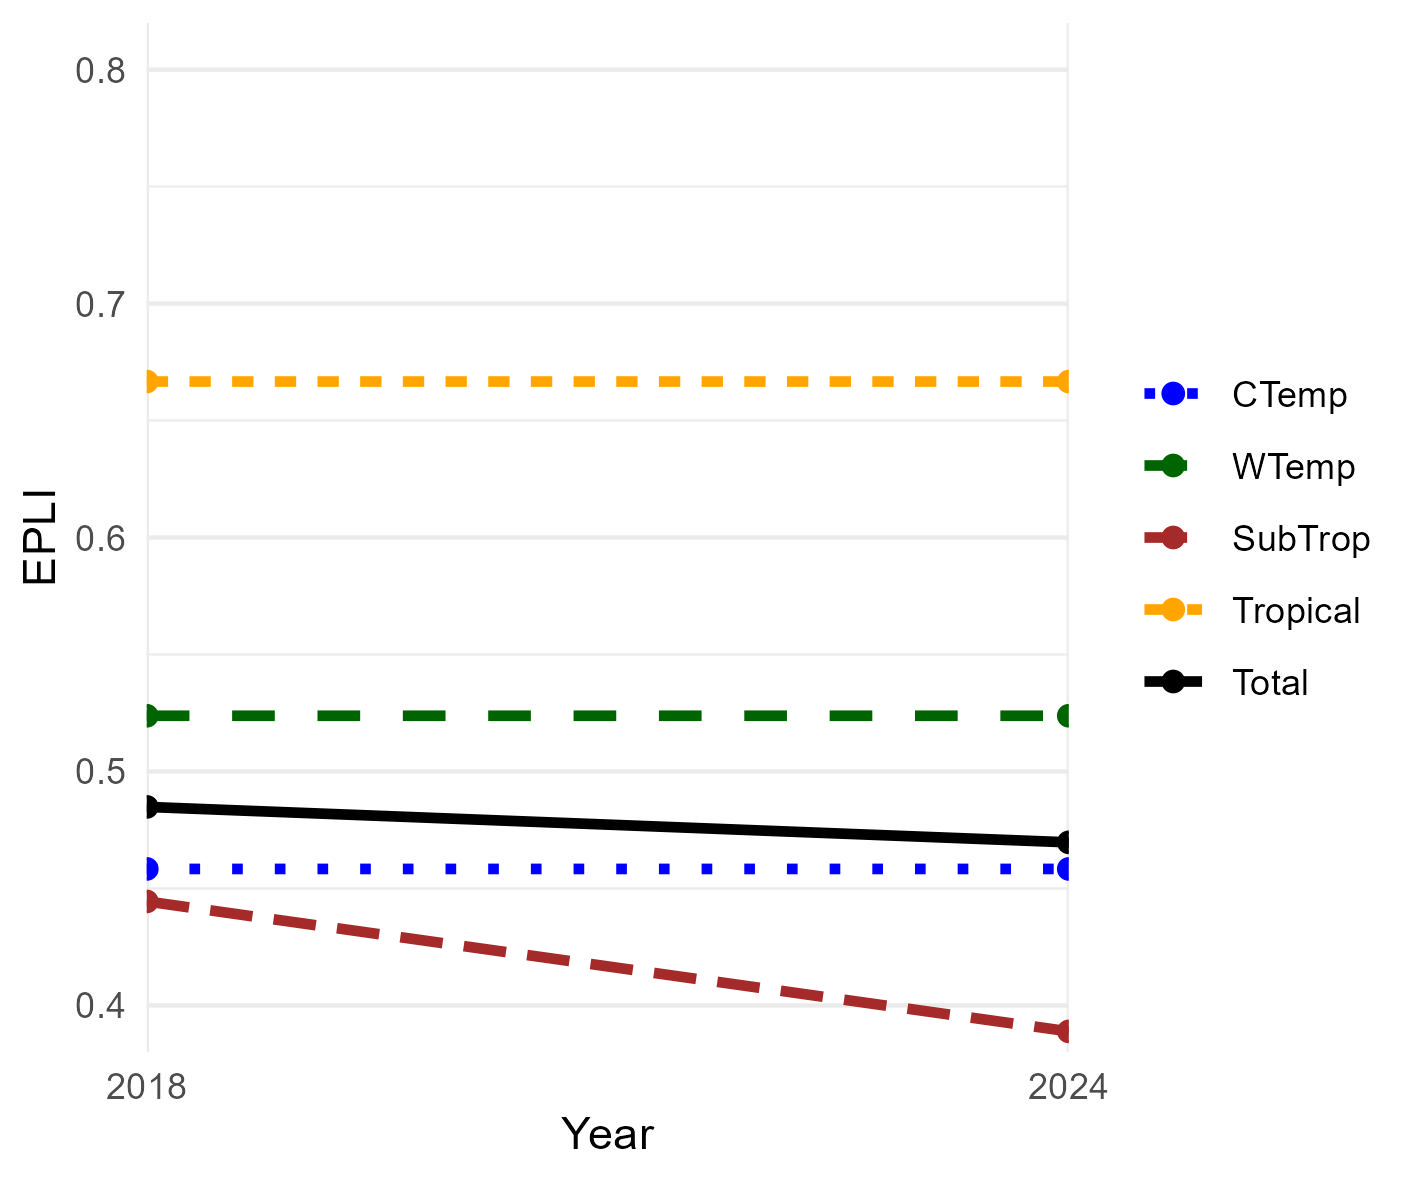
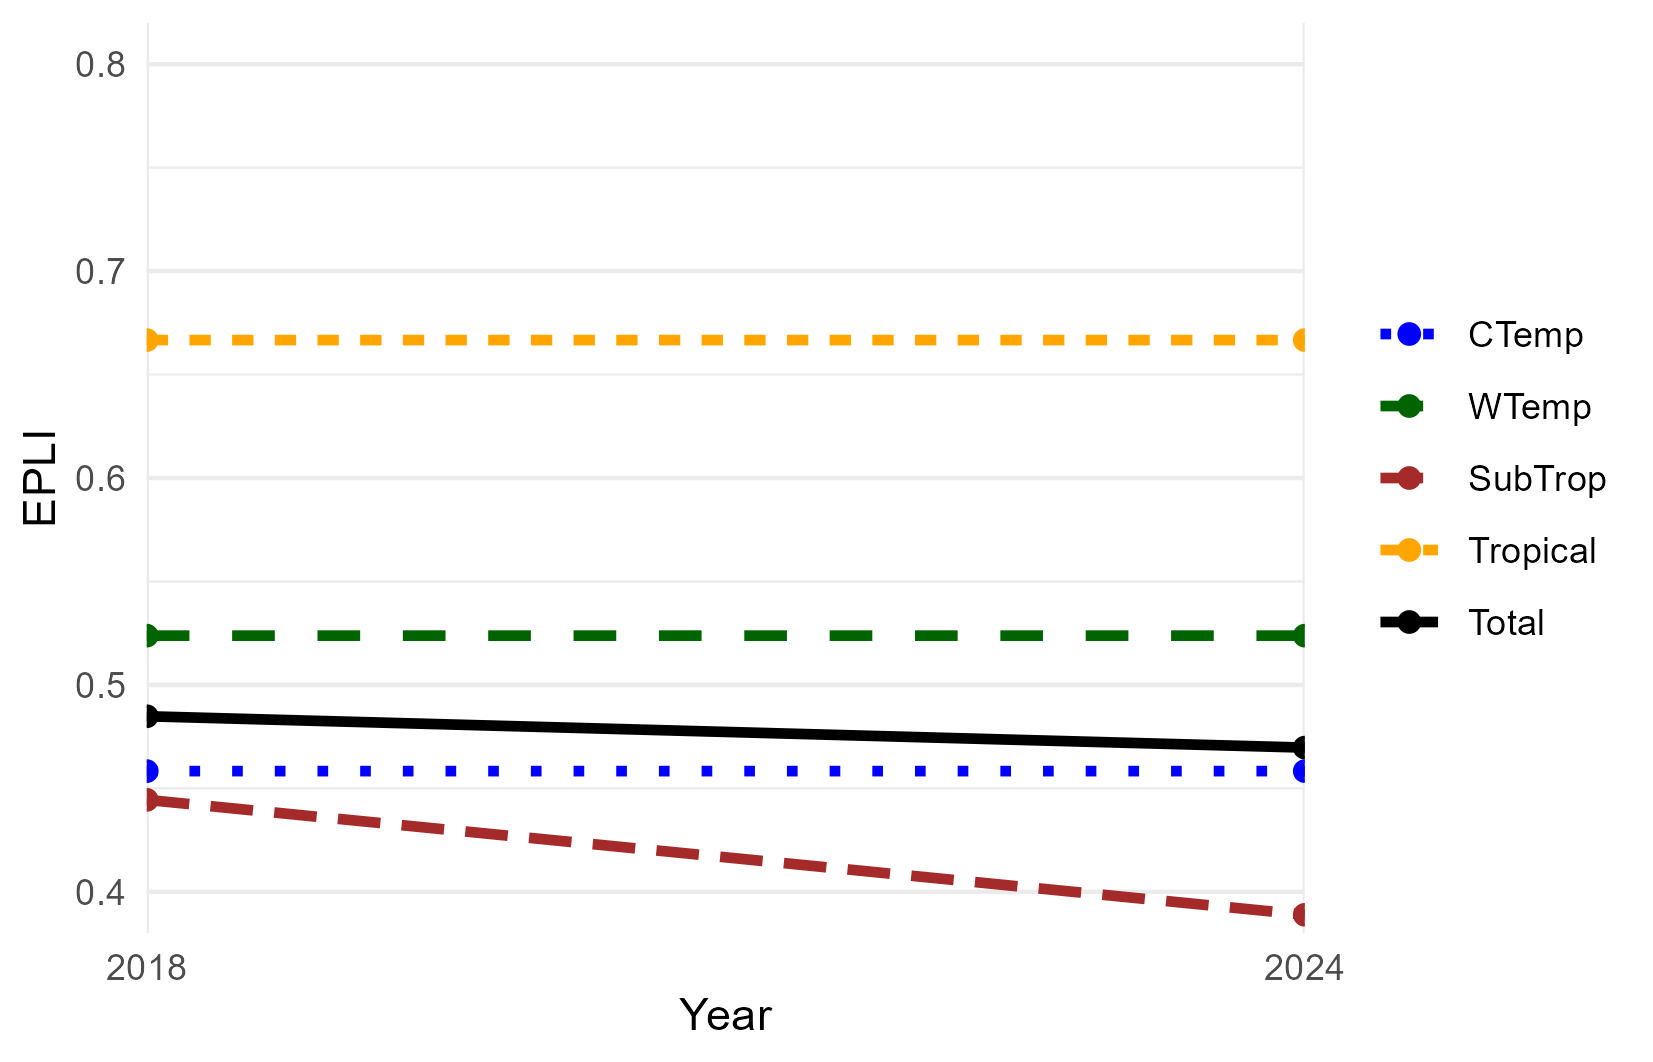
updated est epl model CD 30% E 10%

diff --git a/README.md b/README.md
@@ -26,11 +26,11 @@ Protection Level is an indicator developed in South Africa that measures the rep
 
 -   Well Protected: 100% of the PA target within PA network; AND only A&B condition estuaries contribute; AND areas under heavy and very heavy fishing pressure are excluded from contributing
 
--   Moderately Protected: 50% to 99% of PA target within the PA network; and A&B condition estuaries contribute 100%, C condition estuaries contribute 50%, D condition estuaries contribute 30% and E&F condition estuaries contribute 10%
+-   Moderately Protected: 50% to 99% of PA target within the PA network; and A&B condition estuaries contribute 100%, C & D condition estuaries contribute 30% and E&F condition estuaries contribute 10%
 
--   Poorly Protected: 5% to 49% of PA target within the PA network; and A&B condition estuaries contribute 100%, C condition wetlands contribute 50%, D condition estuaries contribute 30% and E&F condition estuaries contribute 10%
+-   Poorly Protected: 5% to 49% of PA target within the PA network; and A&B condition estuaries contribute 100%, C & D condition estuaries contribute 30% and E&F condition estuaries contribute 10%
 
--   Not Protected: less than 5% of PA target within the PA network; and A&B condition estuaries contribute 100%, C condition wetlands contribute 50%, D condition estuaries contribute 30% and E&F condition estuaries contribute 10%
+-   Not Protected: less than 5% of PA target within the PA network; and A&B condition estuaries contribute 100%, C & D condition estuaries contribute 30% and E&F condition estuaries contribute 10%
 
 The PA target was historically set at 20% for marine and estuarine ecosystems, but with the adoption of the 30% targets for Target 3 of the Global Biodiversity Framework - the PA target was increased to 30% in the EPL calculations (previous time points (2018) were recalculated using this higher target). Ecosystem condition data (van Niekerk et al., 2025) for each time point allow for only good condition estuaries without heavey fishing pressure (especially gill-netting) to be considered representative for Well Protected status; while for MP, PP and NP the condition of the estuaries is used to calculate their contribution to meeting targets such that higher integrity / condition estuaries contribute more to meeting PA targets than low integrity / condition estuaries.
 
